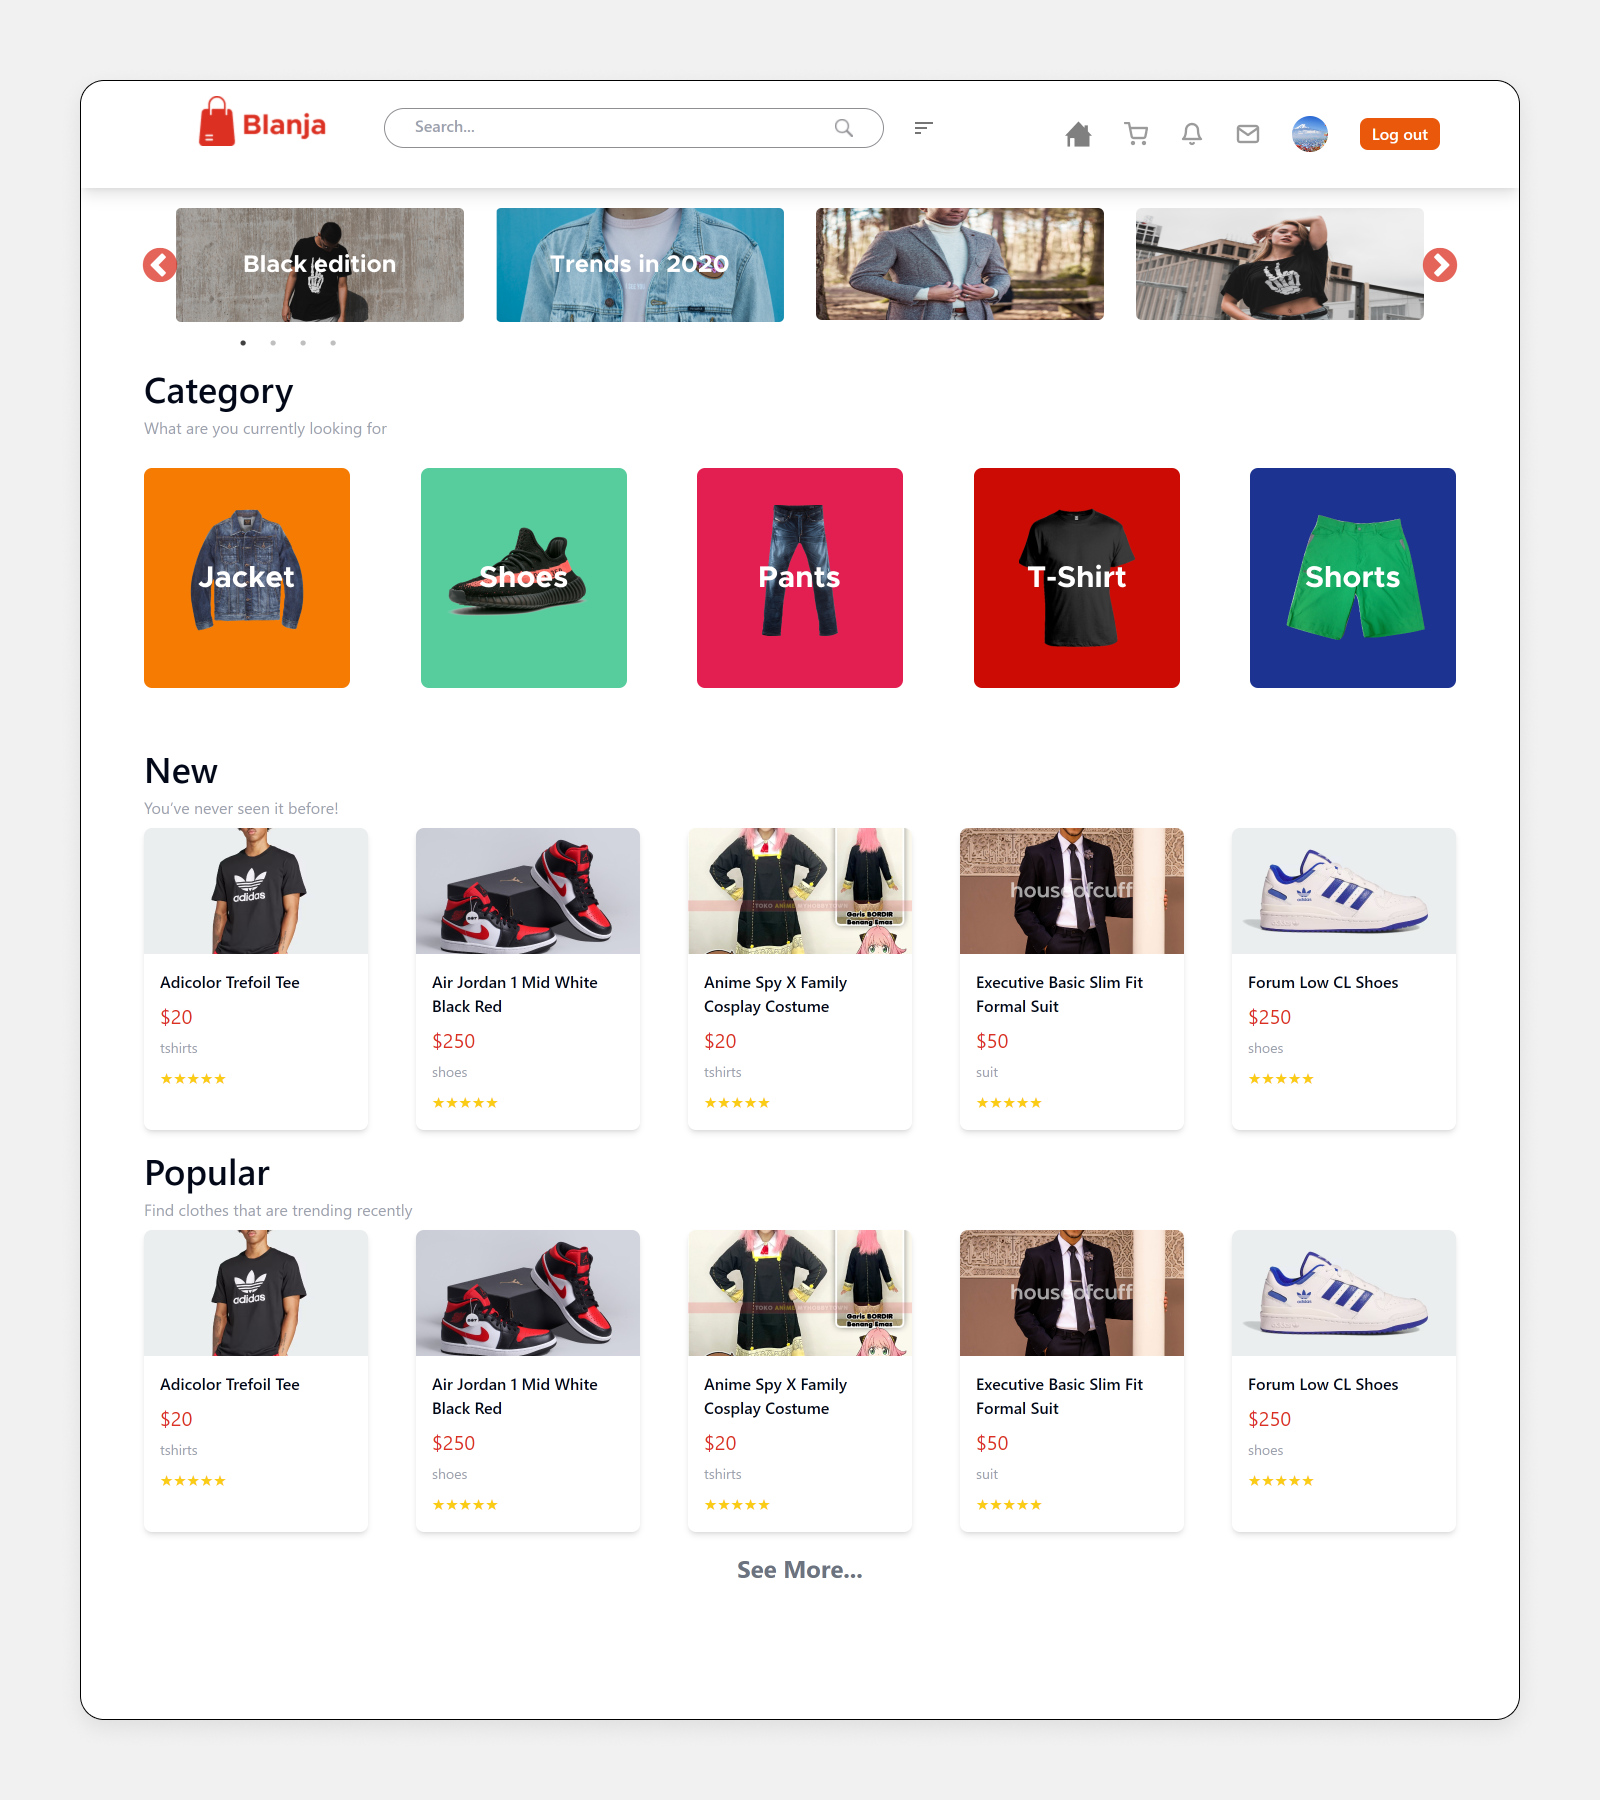
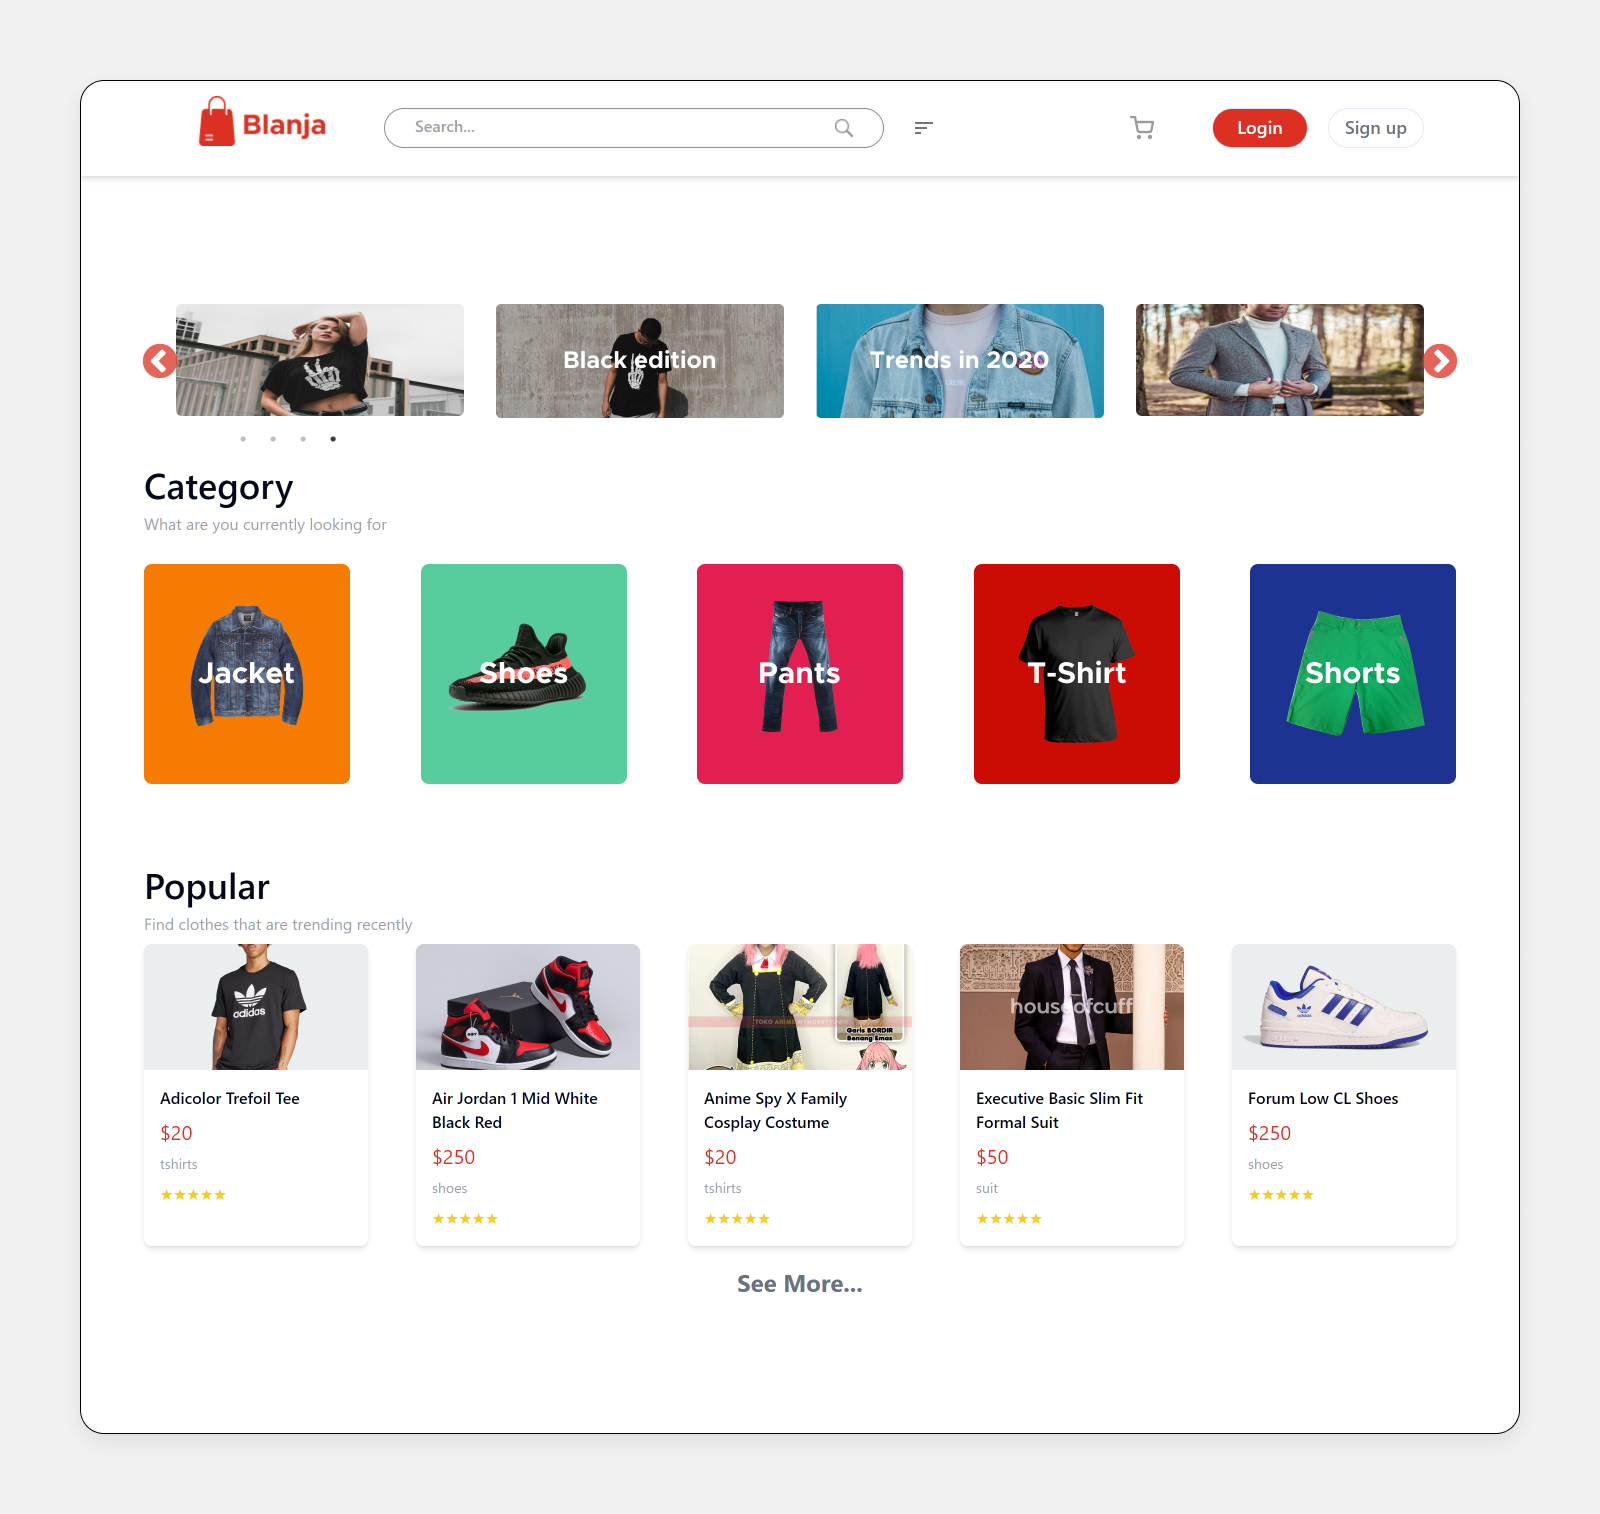
Update README

diff --git a/src/components/module/SellingProduct.jsx b/src/components/module/SellingProduct.jsx
@@ -201,7 +201,7 @@ const SellingProduct = () => {
                     <div className='flex gap-4 items-center w-full'>
                         <div className='flex flex-col gap-2 items-center'>
                             <img className=' size-48 object-cover rounded-lg' src={form.image || BigProductThumbnail} alt="" />
-                            <p className='font-medium text-sm text-[#9b9b9b]'>Foto utama</p>
+                            <p className='font-medium text-sm text-[#9b9b9b]'>Main photo</p>
                         </div>
                         {/* <img className=' size-32 object-cover ' src={SmallProductThumbnail} alt="" />
                         <img className=' size-32 object-cover ' src={SmallProductThumbnail} alt="" />

diff --git a/src/pages/home/home.jsx b/src/pages/home/home.jsx
@@ -12,9 +12,9 @@ const Home = () => {
       <div className='flex py-10 px-16'>
         <Category/>
       </div>
-      <div className='flex px-16'>
+      {/* <div className='flex px-16'>
         <New/>
-      </div>
+      </div> */}
       <div className='flex py-5 px-16'>
         <Popular/>
       </div>
